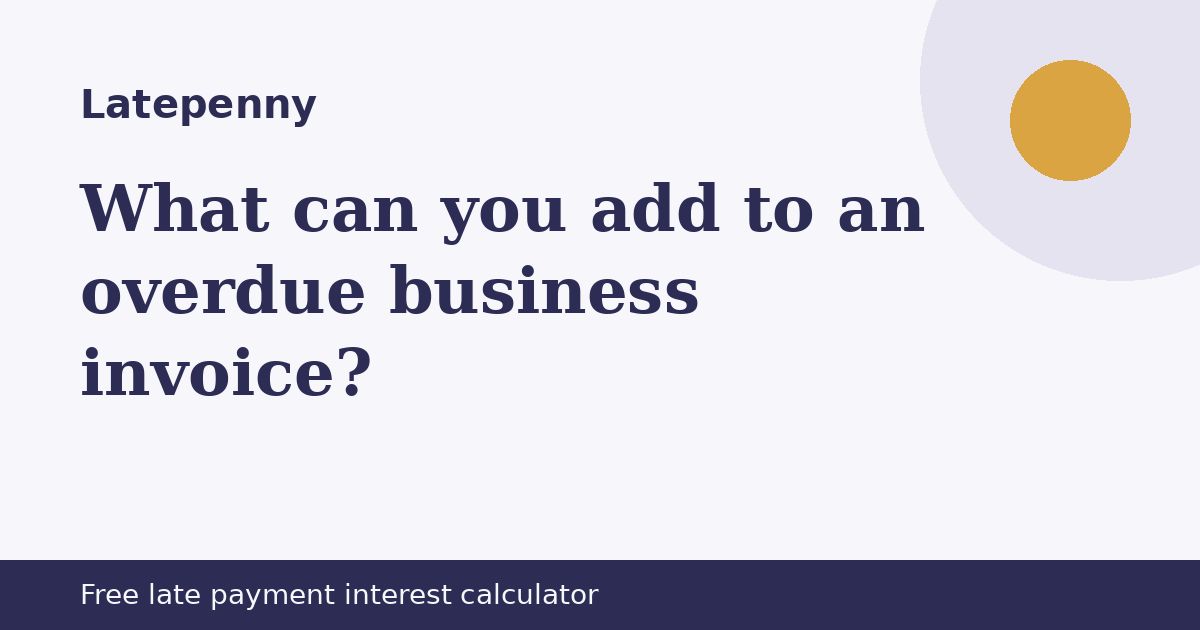
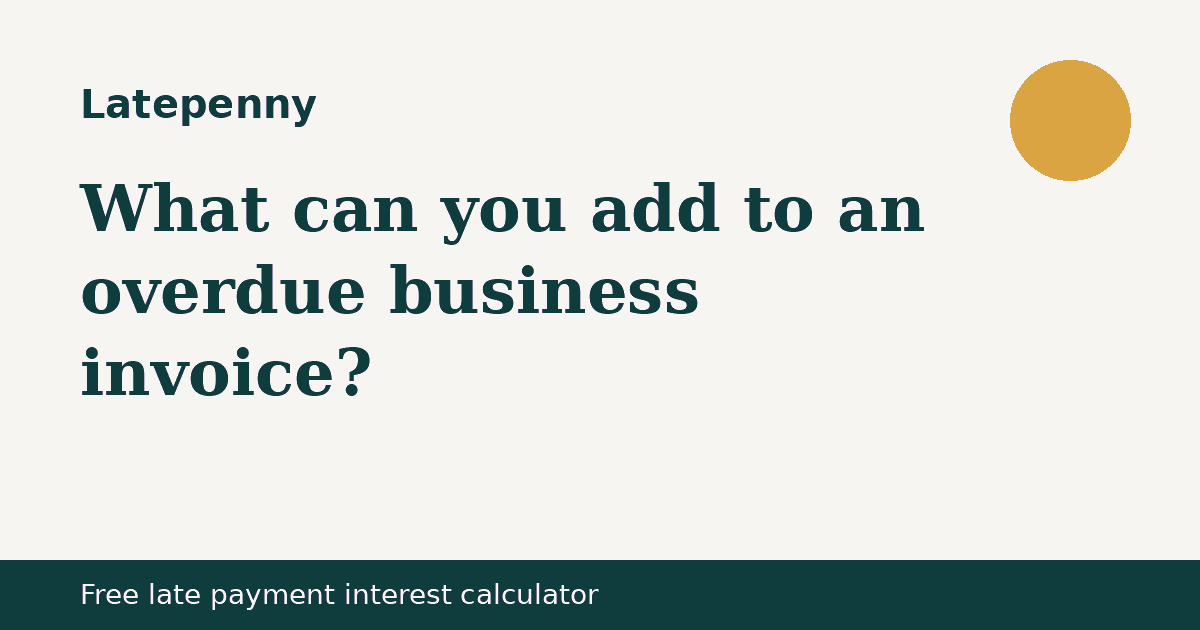
Publish site 2026-11-09 07:39 GMT

diff --git a/index.html b/index.html
@@ -7,7 +7,7 @@
 <meta name="referrer" content="strict-origin-when-cross-origin">
 <title>Latepenny: What can you add to an overdue business invoice?</title>
 <meta name="description" content="A free calculator for statutory interest and fixed compensation on late business-to-business invoices.">
-<meta name="theme-color" content="#2C2C54">
+<meta name="theme-color" content="#0F3D3E">
 <meta property="og:type" content="website"><meta property="og:title" content="Latepenny: What can you add to an overdue business invoice?"><meta property="og:description" content="A free calculator for statutory interest and fixed compensation on late business-to-business invoices.">
 <meta property="og:image" content="https://evanturner557-del.github.io/latepenny/assets/og.png"><meta property="og:image:width" content="1200"><meta property="og:image:height" content="630">
 <meta property="og:image:alt" content="Latepenny: What can you add to an overdue business invoice?"><meta property="og:site_name" content="Latepenny"><meta property="og:locale" content="en_GB">
@@ -21,9 +21,9 @@
 </head>
 <body>
 <a class="skip" href="#main">Skip to content</a>
-<header><div class="wrap top"><a class="brand" href="./"><svg viewBox="0 0 64 64" aria-hidden="true" width="34" height="34"><path d="M32 0 64 32 32 64 0 32z" fill="#2C2C54"/><text x="32" y="43" text-anchor="middle" font-family="Georgia, serif" font-weight="700" font-size="30" fill="#F7F7FB">L</text><circle cx="50" cy="50" r="6" fill="#D9A441"/></svg>Latepenny</a><nav aria-label="Primary"><a href="#tool">The tool</a><a href="#faq">Questions</a><a href="#contact">Contact</a></nav></div></header>
+<header><div class="wrap top"><a class="brand" href="./"><svg viewBox="0 0 64 64" aria-hidden="true" width="34" height="34"><path d="M32 0 64 32 32 64 0 32z" fill="#0F3D3E"/><text x="32" y="43" text-anchor="middle" font-family="Georgia, serif" font-weight="700" font-size="30" fill="#F7F5F2">L</text><circle cx="50" cy="50" r="6" fill="#D9A441"/></svg>Latepenny</a><nav aria-label="Primary"><a href="#tool">The tool</a><a href="#faq">Questions</a><a href="#contact">Contact</a></nav></div></header>
 <main id="main">
-<section class="hero"><div class="wrap"><div><span class="eyebrow">Free tool · Free late payment interest calculator</span><h1>What can you add to an overdue business invoice?</h1><p class="lede">Under the UK&#x27;s late payment rules you can usually claim interest at 8% above the Bank of England base rate, plus fixed compensation. Enter the invoice and the base rate to see the figures.</p><div class="ctas"><a class="btn" href="#tool" data-cta="hero">Use the tool</a><a class="btn ghost" href="#faq" data-cta="hero-secondary">Questions</a></div></div><figure class="art"><svg viewBox="0 0 400 400" aria-hidden="true" focusable="false" class="motif"><rect x="80" y="50" width="240" height="310" rx="14" fill="#2C2C54"/><rect x="88" y="58" width="224" height="294" rx="8" fill="#F7F7FB"/><rect x="110" y="170" width="180" height="8" rx="4" fill="#E6E3F0"/><rect x="110" y="196" width="150" height="8" rx="4" fill="#E6E3F0"/><rect x="110" y="222" width="120" height="8" rx="4" fill="#E6E3F0"/><rect x="110" y="248" width="180" height="8" rx="4" fill="#E6E3F0"/><rect x="110" y="274" width="150" height="8" rx="4" fill="#E6E3F0"/><rect x="110" y="90" width="100" height="14" rx="7" fill="#D9A441"/><path d="M232 50 h88 v88z" fill="#E6E3F0"/><path d="M232 50 v88 h88z" fill="#D9A441"/><rect x="248" y="100" width="40" height="6" rx="3" fill="#2C2C54"/></svg><figcaption class="fine">Illustrative</figcaption></figure></div></section>
+<section class="hero"><div class="wrap"><div><span class="eyebrow">Free tool · Free late payment interest calculator</span><h1>What can you add to an overdue business invoice?</h1><p class="lede">Under the UK&#x27;s late payment rules you can usually claim interest at 8% above the Bank of England base rate, plus fixed compensation. Enter the invoice and the base rate to see the figures.</p><div class="ctas"><a class="btn" href="#tool" data-cta="hero">Use the tool</a><a class="btn ghost" href="#faq" data-cta="hero-secondary">Questions</a></div></div><figure class="art"><svg viewBox="0 0 400 400" aria-hidden="true" focusable="false" class="motif"><rect x="80" y="50" width="240" height="310" rx="14" fill="#0F3D3E"/><rect x="88" y="58" width="224" height="294" rx="8" fill="#F7F5F2"/><rect x="110" y="170" width="180" height="8" rx="4" fill="#E3F1EE"/><rect x="110" y="196" width="150" height="8" rx="4" fill="#E3F1EE"/><rect x="110" y="222" width="120" height="8" rx="4" fill="#E3F1EE"/><rect x="110" y="248" width="180" height="8" rx="4" fill="#E3F1EE"/><rect x="110" y="274" width="150" height="8" rx="4" fill="#E3F1EE"/><rect x="110" y="90" width="100" height="14" rx="7" fill="#D9A441"/><path d="M232 50 h88 v88z" fill="#E3F1EE"/><path d="M232 50 v88 h88z" fill="#D9A441"/><rect x="248" y="100" width="40" height="6" rx="3" fill="#0F3D3E"/></svg><figcaption class="fine">Illustrative</figcaption></figure></div></section>
 <section id="tool"><div class="wrap"><span class="eyebrow">Free, no sign-up</span><h2>A free calculator for statutory interest and fixed compensation on late business-to-business invoices.</h2><form class="tool" id="calc" novalidate><div class="row"><label for="t-amt">Invoice amount (£)</label><input type="number" id="t-amt" data-k="amt" value="1200" step="1" min="0" inputmode="decimal"></div><div class="row"><label for="t-days">Days overdue</label><input type="number" id="t-days" data-k="days" value="30" step="1" min="0" inputmode="decimal"></div><div class="row"><label for="t-base">Bank of England base rate (%), 3.75% as of 17 Sep 2026</label><input type="number" id="t-base" data-k="base" value="3.75" step="0.05" min="0" inputmode="decimal"></div><div class="result" id="result" role="status" aria-live="polite"></div><p class="fine">Calculated in your browser. Nothing is sent or stored.</p></form></div></section>
 <section class="tint" id="price"><div class="wrap"><span class="eyebrow">Cost</span><div class="pricebox"><p class="price">Free</p><p>The tool is free to use. There is nothing to buy.</p></div></div></section>
 <section id="faq"><div class="wrap"><span class="eyebrow">Questions</span><h2>Common questions</h2><details><summary>Which base rate should I use?</summary><p>The rate in force on 30 June or 31 December before the payment was due. Bank Rate was 3.75% as of the Bank of England&#x27;s 17 September 2026 decision (checked 21 October 2026); check the Bank of England&#x27;s website for the current figure.</p></details><details><summary>Does it apply to consumers?</summary><p>No. It&#x27;s for business-to-business invoices.</p></details><details><summary>Is it legal advice?</summary><p>No. GOV.UK&#x27;s guidance on late commercial payments is the authority.</p></details><p class="fine mt">Latepenny is a calculator, not legal advice. Check GOV.UK&#x27;s guidance on late commercial payments.</p></div></section>

diff --git a/privacy.html b/privacy.html
@@ -7,7 +7,7 @@
 <meta name="referrer" content="strict-origin-when-cross-origin">
 <title>Privacy notice | Latepenny</title>
 <meta name="description" content="Privacy notice for Latepenny.">
-<meta name="theme-color" content="#2C2C54">
+<meta name="theme-color" content="#0F3D3E">
 <meta property="og:type" content="website"><meta property="og:title" content="Privacy notice | Latepenny"><meta property="og:description" content="Privacy notice for Latepenny.">
 <meta property="og:image" content="https://evanturner557-del.github.io/latepenny/assets/og.png"><meta property="og:image:width" content="1200"><meta property="og:image:height" content="630">
 <meta property="og:image:alt" content="Latepenny: What can you add to an overdue business invoice?"><meta property="og:site_name" content="Latepenny"><meta property="og:locale" content="en_GB">
@@ -21,7 +21,7 @@
 </head>
 <body>
 <a class="skip" href="#main">Skip to content</a>
-<header><div class="wrap top"><a class="brand" href="./"><svg viewBox="0 0 64 64" aria-hidden="true" width="34" height="34"><path d="M32 0 64 32 32 64 0 32z" fill="#2C2C54"/><text x="32" y="43" text-anchor="middle" font-family="Georgia, serif" font-weight="700" font-size="30" fill="#F7F7FB">L</text><circle cx="50" cy="50" r="6" fill="#D9A441"/></svg>Latepenny</a><nav aria-label="Primary"><a href="#tool">The tool</a><a href="#faq">Questions</a><a href="#contact">Contact</a></nav></div></header><main id="main"><section><div class="wrap legal"><h1>Privacy notice</h1><p class="fine">Last updated 20 October 2026</p>
+<header><div class="wrap top"><a class="brand" href="./"><svg viewBox="0 0 64 64" aria-hidden="true" width="34" height="34"><path d="M32 0 64 32 32 64 0 32z" fill="#0F3D3E"/><text x="32" y="43" text-anchor="middle" font-family="Georgia, serif" font-weight="700" font-size="30" fill="#F7F5F2">L</text><circle cx="50" cy="50" r="6" fill="#D9A441"/></svg>Latepenny</a><nav aria-label="Primary"><a href="#tool">The tool</a><a href="#faq">Questions</a><a href="#contact">Contact</a></nav></div></header><main id="main"><section><div class="wrap legal"><h1>Privacy notice</h1><p class="fine">Last updated 20 October 2026</p>
 <p><span>Operated by a UK sole trader trading as Latepenny. Contact: localreply+latepenny@agentmail.to. Postal address available on written request.</span> We are the controller for the personal data described here. For anything in this notice, email <a href="mailto:localreply+latepenny@agentmail.to">localreply+latepenny@agentmail.to</a> with “Latepenny” in the subject line.</p>
 <h2>What we collect</h2><p>If you email us, we receive your name, email address, anything you write in your message and, if you give it, your postcode or town. We use it only to deal with your enquiry. We can&#x27;t promise a reply or a timeframe yet.</p><p>The calculator or checklist runs entirely in your browser. What you type into it is not sent to us or stored.</p>
 <h2>Lawful basis</h2><p>Replying to an enquiry you send us is in our legitimate interests, or steps taken at your request before any agreement (UK GDPR Article 6(1)(f) and 6(1)(b)).</p>

diff --git a/terms.html b/terms.html
@@ -7,7 +7,7 @@
 <meta name="referrer" content="strict-origin-when-cross-origin">
 <title>Terms of use | Latepenny</title>
 <meta name="description" content="Terms of use for Latepenny.">
-<meta name="theme-color" content="#2C2C54">
+<meta name="theme-color" content="#0F3D3E">
 <meta property="og:type" content="website"><meta property="og:title" content="Terms of use | Latepenny"><meta property="og:description" content="Terms of use for Latepenny.">
 <meta property="og:image" content="https://evanturner557-del.github.io/latepenny/assets/og.png"><meta property="og:image:width" content="1200"><meta property="og:image:height" content="630">
 <meta property="og:image:alt" content="Latepenny: What can you add to an overdue business invoice?"><meta property="og:site_name" content="Latepenny"><meta property="og:locale" content="en_GB">
@@ -21,7 +21,7 @@
 </head>
 <body>
 <a class="skip" href="#main">Skip to content</a>
-<header><div class="wrap top"><a class="brand" href="./"><svg viewBox="0 0 64 64" aria-hidden="true" width="34" height="34"><path d="M32 0 64 32 32 64 0 32z" fill="#2C2C54"/><text x="32" y="43" text-anchor="middle" font-family="Georgia, serif" font-weight="700" font-size="30" fill="#F7F7FB">L</text><circle cx="50" cy="50" r="6" fill="#D9A441"/></svg>Latepenny</a><nav aria-label="Primary"><a href="#tool">The tool</a><a href="#faq">Questions</a><a href="#contact">Contact</a></nav></div></header><main id="main"><section><div class="wrap legal"><h1>Terms of use</h1><p class="fine">Last updated 19 October 2026</p>
+<header><div class="wrap top"><a class="brand" href="./"><svg viewBox="0 0 64 64" aria-hidden="true" width="34" height="34"><path d="M32 0 64 32 32 64 0 32z" fill="#0F3D3E"/><text x="32" y="43" text-anchor="middle" font-family="Georgia, serif" font-weight="700" font-size="30" fill="#F7F5F2">L</text><circle cx="50" cy="50" r="6" fill="#D9A441"/></svg>Latepenny</a><nav aria-label="Primary"><a href="#tool">The tool</a><a href="#faq">Questions</a><a href="#contact">Contact</a></nav></div></header><main id="main"><section><div class="wrap legal"><h1>Terms of use</h1><p class="fine">Last updated 19 October 2026</p>
 <p><span>Operated by a UK sole trader trading as Latepenny. Contact: localreply+latepenny@agentmail.to. Postal address available on written request.</span> Email: <a href="mailto:localreply+latepenny@agentmail.to">localreply+latepenny@agentmail.to</a>.</p>
 <h2>About this website</h2><p>This website describes Latepenny: a free calculator for statutory interest and fixed compensation on late business-to-business invoices. Nothing can be bought or paid for on this website. Sending an enquiry does not create a contract.</p>
 <h2>Prices</h2><p>Free. The tool is free to use and there is nothing to buy.</p><h2>The free tool</h2><p>The tool gives estimates for general information. Check important figures with the official source named on the page before relying on them. We are not liable for decisions made using it.</p>

diff --git a/404.html b/404.html
@@ -7,7 +7,7 @@
 <meta name="referrer" content="strict-origin-when-cross-origin">
 <title>Page not found | Latepenny</title>
 <meta name="description" content="Page not found for Latepenny.">
-<meta name="theme-color" content="#2C2C54">
+<meta name="theme-color" content="#0F3D3E">
 <meta property="og:type" content="website"><meta property="og:title" content="Page not found | Latepenny"><meta property="og:description" content="Page not found for Latepenny.">
 <meta property="og:image" content="https://evanturner557-del.github.io/latepenny/assets/og.png"><meta property="og:image:width" content="1200"><meta property="og:image:height" content="630">
 <meta property="og:image:alt" content="Latepenny: What can you add to an overdue business invoice?"><meta property="og:site_name" content="Latepenny"><meta property="og:locale" content="en_GB">
@@ -21,7 +21,7 @@
 </head>
 <body>
 <a class="skip" href="#main">Skip to content</a>
-<header><div class="wrap top"><a class="brand" href="./"><svg viewBox="0 0 64 64" aria-hidden="true" width="34" height="34"><path d="M32 0 64 32 32 64 0 32z" fill="#2C2C54"/><text x="32" y="43" text-anchor="middle" font-family="Georgia, serif" font-weight="700" font-size="30" fill="#F7F7FB">L</text><circle cx="50" cy="50" r="6" fill="#D9A441"/></svg>Latepenny</a><nav aria-label="Primary"><a href="#tool">The tool</a><a href="#faq">Questions</a><a href="#contact">Contact</a></nav></div></header><main id="main"><section><div class="wrap legal"><h1>Page not found</h1><p>That page doesn't exist. <a href="./">Go to the Latepenny home page</a>.</p></div></section></main><footer><div class="wrap"><p>Operated by a UK sole trader trading as Latepenny. Contact: localreply+latepenny@agentmail.to. Postal address available on written request.</p>
+<header><div class="wrap top"><a class="brand" href="./"><svg viewBox="0 0 64 64" aria-hidden="true" width="34" height="34"><path d="M32 0 64 32 32 64 0 32z" fill="#0F3D3E"/><text x="32" y="43" text-anchor="middle" font-family="Georgia, serif" font-weight="700" font-size="30" fill="#F7F5F2">L</text><circle cx="50" cy="50" r="6" fill="#D9A441"/></svg>Latepenny</a><nav aria-label="Primary"><a href="#tool">The tool</a><a href="#faq">Questions</a><a href="#contact">Contact</a></nav></div></header><main id="main"><section><div class="wrap legal"><h1>Page not found</h1><p>That page doesn't exist. <a href="./">Go to the Latepenny home page</a>.</p></div></section></main><footer><div class="wrap"><p>Operated by a UK sole trader trading as Latepenny. Contact: localreply+latepenny@agentmail.to. Postal address available on written request.</p>
 <p><a href="privacy.html">Privacy</a><a href="terms.html">Terms</a><a href="./#contact">Contact</a></p>
 <p class="fine">Latepenny is a calculator, not legal advice. Check GOV.UK&#x27;s guidance on late commercial payments.</p></div></footer>
 </body></html>
